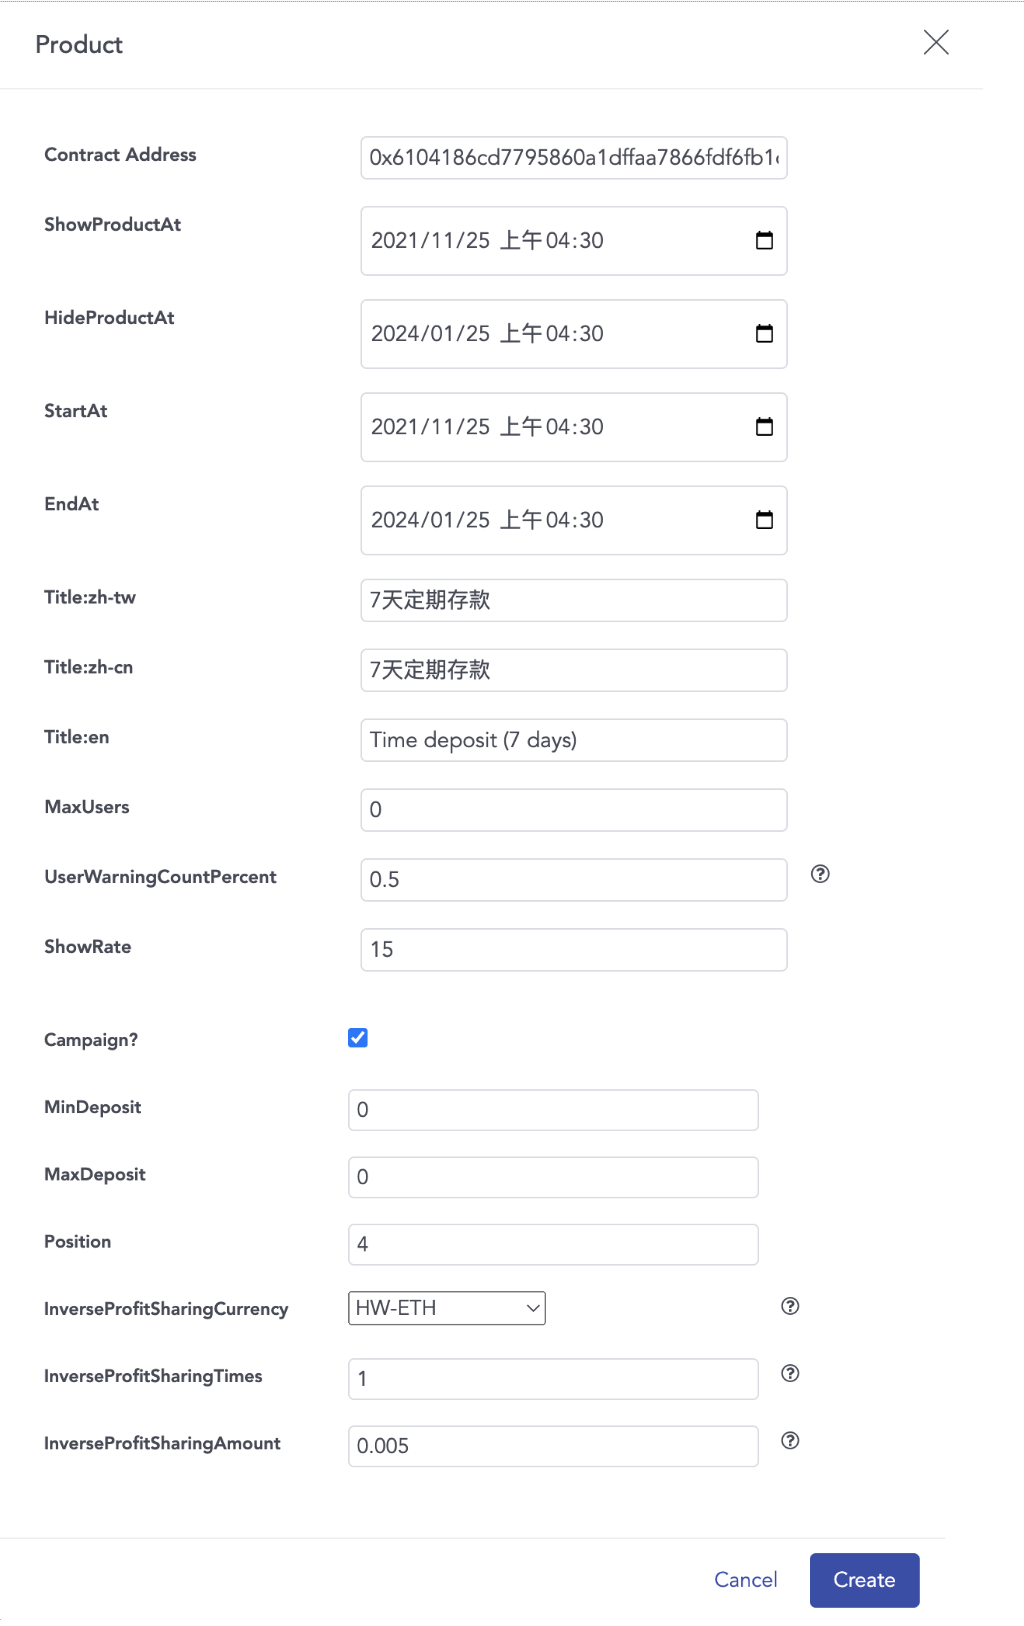
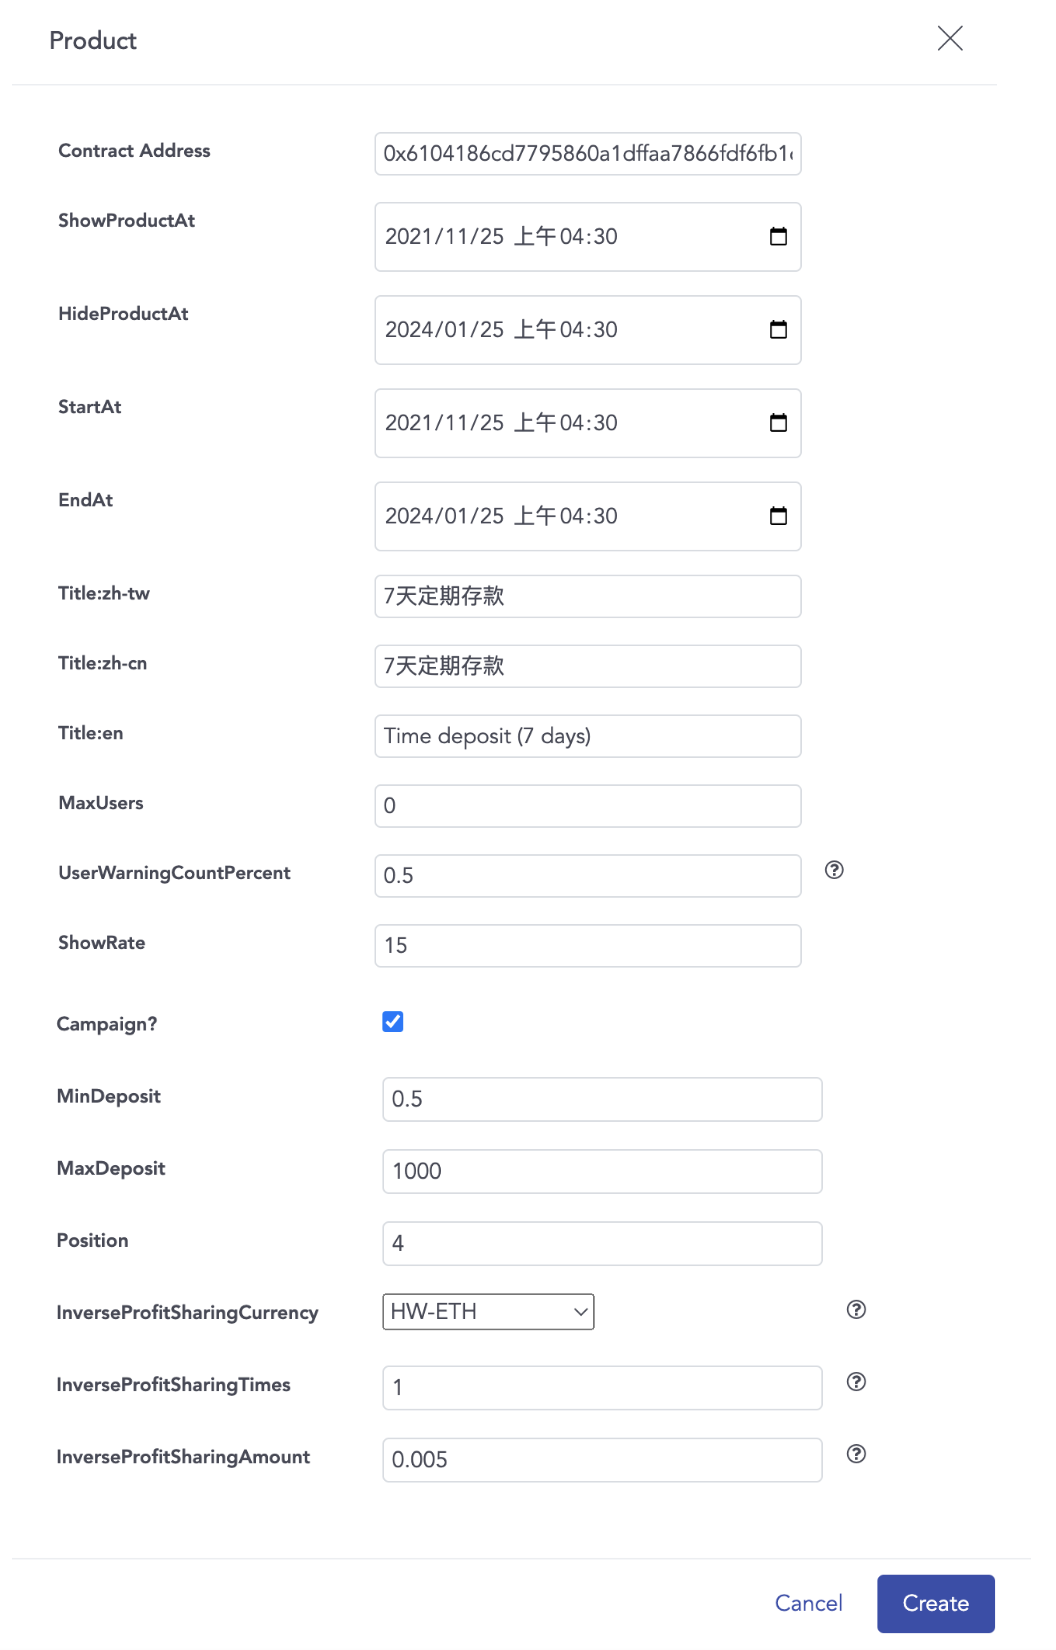
revise doc

diff --git a/docs/private_chain.md b/docs/private_chain.md
@@ -259,9 +259,19 @@ After deposit to CPC, you can further deposit to finance product for a period of
 In this section, we will illustrate how to achieve this feature through related API.
 
 ### Product Setting and Model
-Below is an example to show how a finance product may look like and related fields.
+Below is an example to show how a finance product may look like and related fields. 
+
 |  Product Setting (Admin Panel)   | Model  | Example UI (App)  |
 |  ----  | ----  | ----  |
 |  <img src="images/sdk_guideline/private_chain_product_setting.png" alt="drawing" width="500"/>  | <img src="images/sdk_guideline/private_chain_fp_model.png" alt="drawing" width="500"/> | <img src="images/sdk_guideline/private_chain_fp_item.png" alt="drawing" width="500"/>  |
+|  Contract Address  | `uuid`  | |
+|  StartAt  | `startTimestamp`  | If current time is earlier than `startTimestamp`, display **Not Start** tag|
+|  Title:zh-tw <br>Title:zh-cn<br>Title:zh-en | `title.tw`<br>`title.cn`<br>`title.en`  | Display one of these as product name according to device locale|
+|  Max Users<br>UserWarningCountPrcent  | `maxUsers`<br>`userPercent`  | If `maxUsers` <= `userCount`, display **Sold Out** tag<br>If `maxUsers` * `userPercent` >= `userCount`, display **Available** tag, else  display **About Full** tag|
+|  Show Rate  | `rate`  | Display it as annual interest rate, use `ratePercent` for calculation|
+|  Campaign  | `GetFinanceProductsResult.campaign`  | If Campaign is checked, this product will also exist in `GetFinanceProductsResult.campaig`|
+|  MinDeposit<br>MaxDeposit  | `minDeposit`<br>`maxDeposit`  | Display the deposit amount limit range, ex.  **Min 0.1 HW-ETH - 1000 HW-ETH** |
+|  InverseProfitSharingCurrency  | `kind`  | There are 2 types of finance product: fixed deposit and demand deposit<br>If InverseProfitSharingCurrency is set to **Disable**, `kind` is `FinanceProduct.Kind.DEMAND_DEPOSIT` = `2` ,<br>otherwise, `kind` is `FinanceProduct.Kind.FIXED_DEPOSIT` = `1`.
+|
  
 
